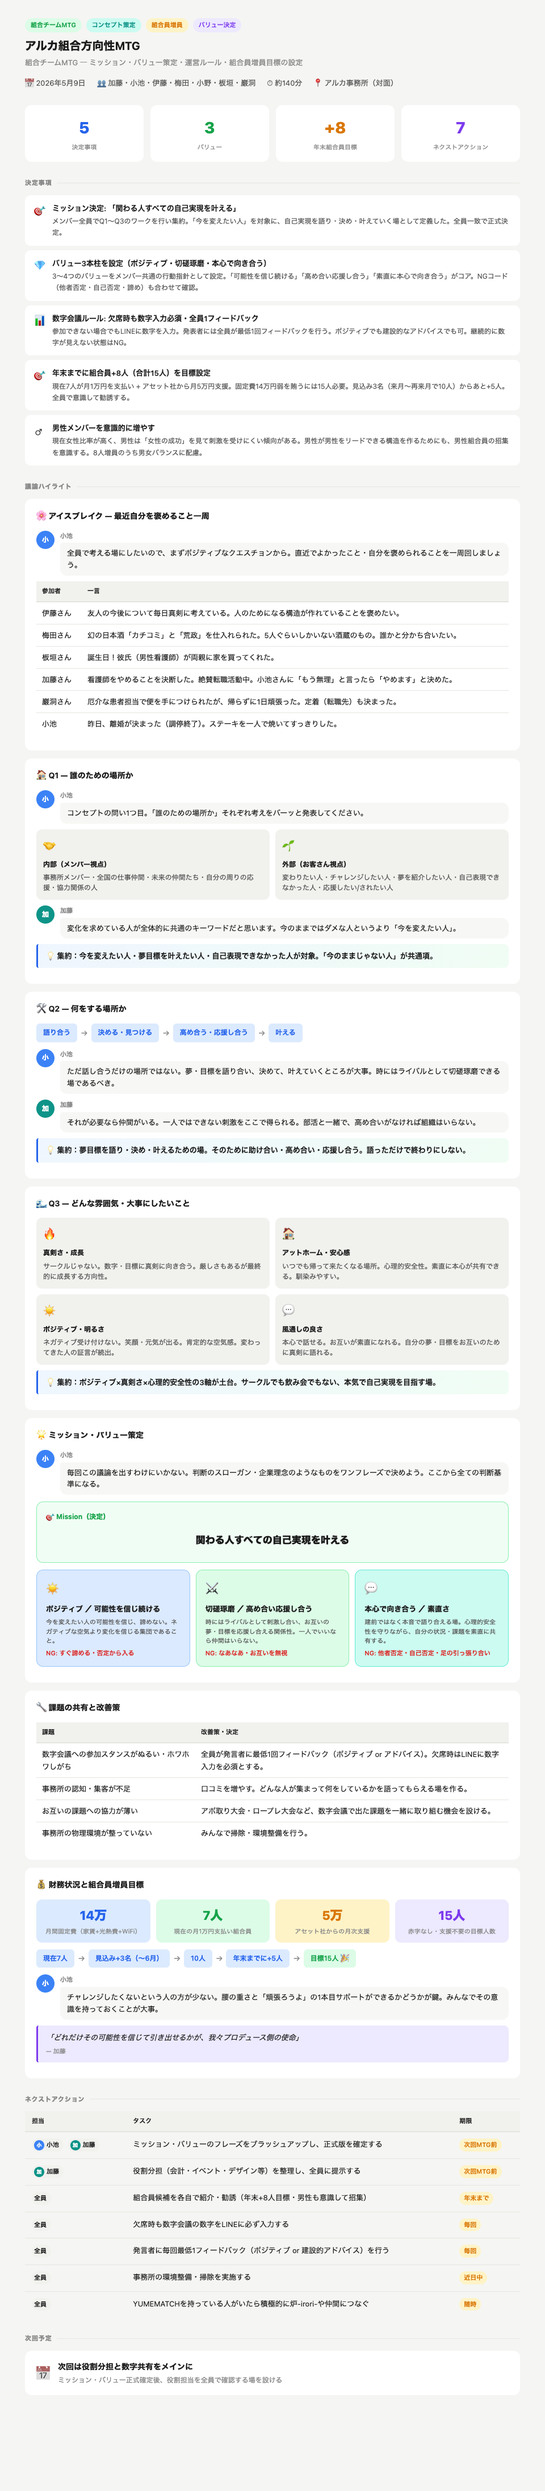
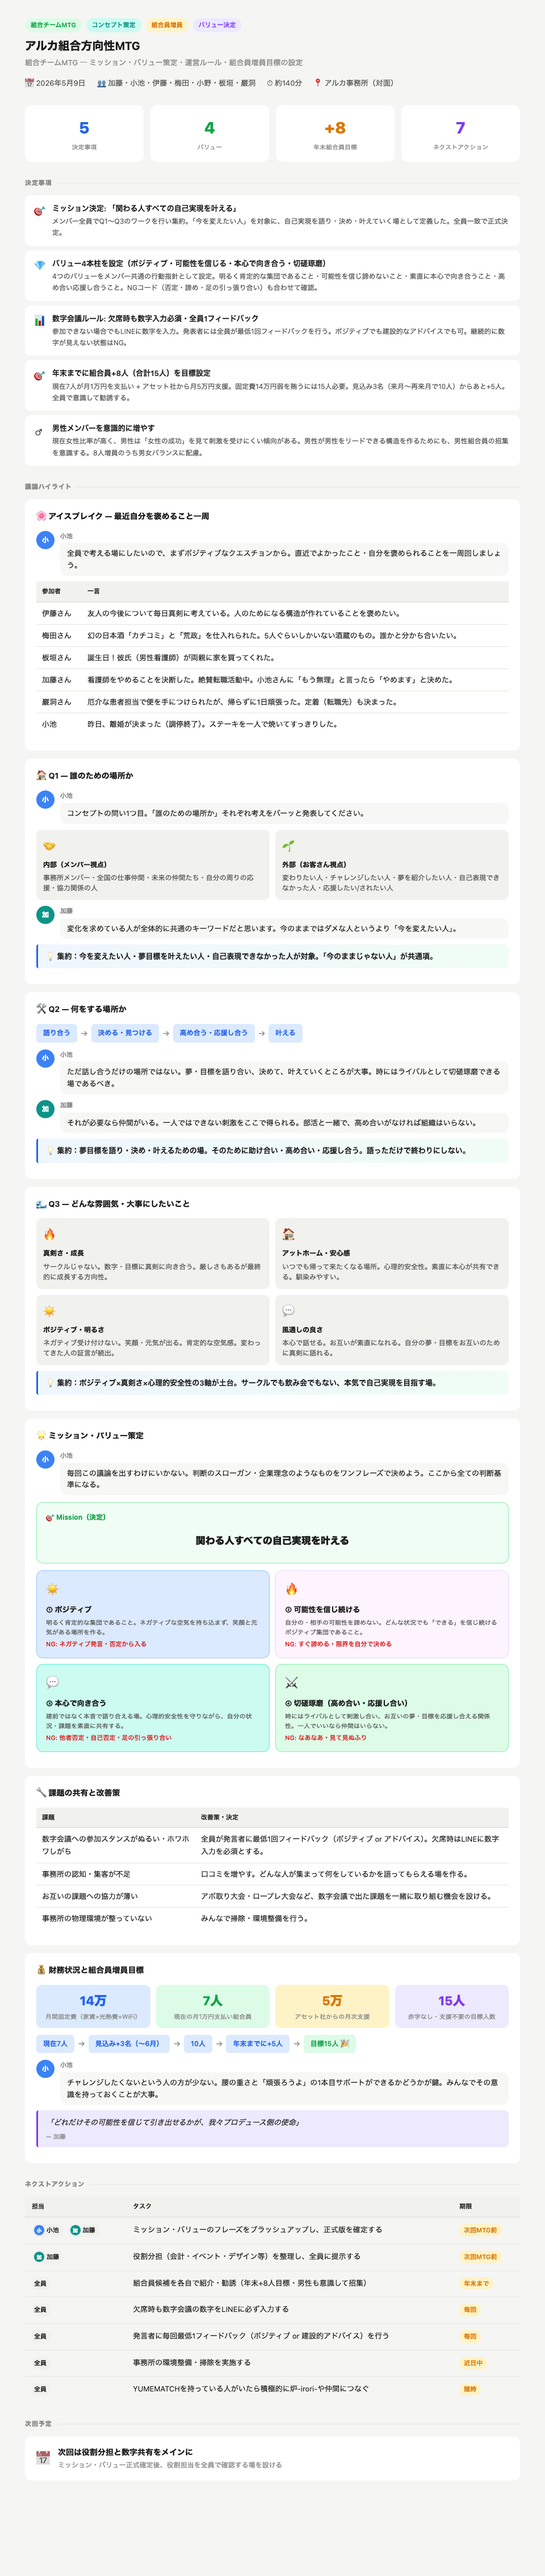
Fix バリュー4本に更新（可能性を信じるを追加）

diff --git a/index-team.html b/index-team.html
@@ -246,7 +246,7 @@ const MEETINGS = [
   },
   decisions: [
     ["ミッション決定: 関わる人すべての自己実現を叶える","Q1〜Q3のワークで集約。今を変えたい人を対象に自己実現を語り・決め・叶える場として定義。全員一致で正式決定。"],
-    ["バリュー3本柱: ポジティブ・切磋琢磨・本心で向き合う","可能性を信じ続ける／高め合い応援し合う／素直に本心で向き合う。NGコード（否定・諦め）も確認。"],
+    ["バリュー4本柱: ポジティブ・可能性を信じる・本心で向き合う・切磋琢磨","①明るく肯定的な集団②可能性を諦めない③本音で向き合う④高め合い応援し合う。NGコード（否定・諦め・足の引っ張り合い）も確認。"],
     ["数字会議ルール: 欠席時も数字入力必須・全員1フィードバック","欠席時はLINEに数字を入力。発表者には全員が最低1回フィードバック（ポジティブ or アドバイス）。"],
     ["年末までに組合員+8人（合計15人）を目標設定","固定費14万円弱。15人で月1万円ずつ賄える。見込み3名→10人→年末+5人でゴール。全員で意識して勧誘する。"],
     ["男性メンバーを意識的に増やす","男性は男性をリードできる構造が必要。8人増員のうち男女バランスに配慮して招集する。"]
@@ -272,7 +272,7 @@ const MEETINGS = [
       blocks: [
         ["u","小池","毎回この議論を出すわけにいかない。判断のスローガンをワンフレーズで決めよう。ここから全ての判断基準になる。"],
         ["quote","「関わる人すべての自己実現を叶える」","ミッション（仮）"],
-        ["comparison",[["☀","ポジティブ／可能性を信じ続ける","可能性を信じ、諦めない。変化を信じる集団。NG: すぐ諦める・否定から入る"],["⚔","切磋琢磨／高め合い応援し合う","時にはライバルとして刺激し合い、お互いの夢を応援。NG: なあなあ・無視"],["💬","本心で向き合う／素直さ","建前ではなく本音で語り合える場。NG: 他者否定・足の引っ張り合い"]]],
+        ["comparison",[["☀","① ポジティブ","明るく肯定的な集団。笑顔と元気がある場所。NG: ネガティブ発言・否定から入る"],["🔥","② 可能性を信じ続ける","自分・相手の可能性を諦めない。どんな状況でもできるを信じる。NG: すぐ諦める・限界を自分で決める"],["💬","③ 本心で向き合う","建前でなく本音で語り合える場。心理的安全性。NG: 他者否定・足の引っ張り合い"],["⚔","④ 切磋琢磨（高め合い・応援し合い）","時にはライバルとして刺激し合い、お互いの夢を応援。NG: なあなあ・見て見ぬふり"]]],
         ["u","加藤","それが必要なら仲間がいる。高め合いがなければ組織はいらない。部活と一緒。"]
       ]
     },
